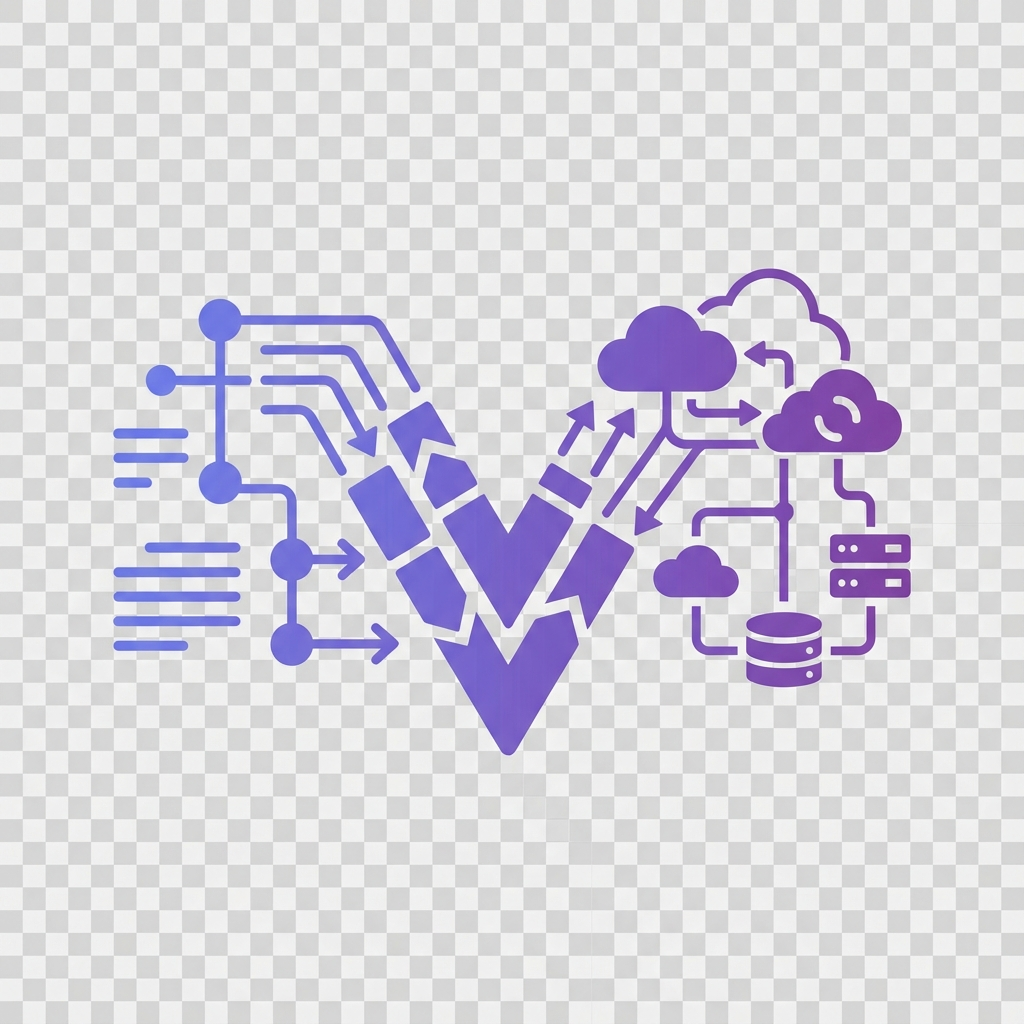
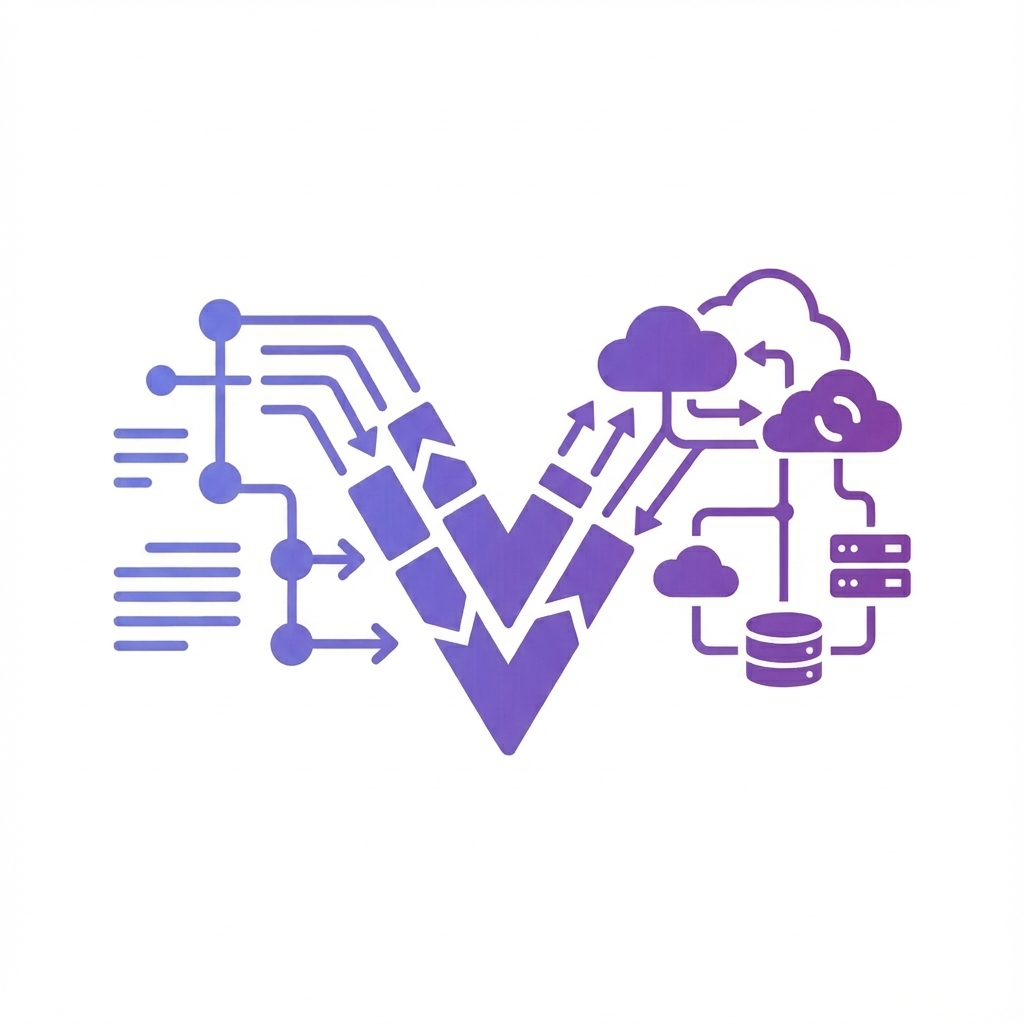
feat: fix image background and refactor blog section to hybrid layout

diff --git a/index.html b/index.html
@@ -830,6 +830,135 @@
                 transform: translateY(0);
             }
         }
+
+        /* Archive Table Styles */
+        .archive-container {
+            margin-top: 3rem;
+            display: none;
+        }
+
+        .archive-container.visible {
+            display: block;
+            animation: fadeIn 0.5s ease-out;
+        }
+
+        .article-table {
+            width: 100%;
+            border-collapse: collapse;
+            background: white;
+            border-radius: 12px;
+            overflow: hidden;
+            box-shadow: var(--shadow-sm);
+            border: 1px solid #e2e8f0;
+        }
+
+        .article-table th,
+        .article-table td {
+            padding: 1.25rem;
+            text-align: left;
+            border-bottom: 1px solid #e2e8f0;
+        }
+
+        .article-table th {
+            background: #f7fafc;
+            font-weight: 600;
+            color: var(--text-light);
+            font-size: 0.85rem;
+            text-transform: uppercase;
+            letter-spacing: 0.5px;
+        }
+
+        .article-table tr:last-child td {
+            border-bottom: none;
+        }
+
+        .article-table tr:hover {
+            background: #f8fafc;
+        }
+
+        .article-date {
+            color: var(--text-light);
+            font-size: 0.9rem;
+            white-space: nowrap;
+            width: 15%;
+        }
+
+        .article-title-cell {
+            width: 45%;
+        }
+
+        .article-title-text {
+            font-weight: 600;
+            color: var(--text-main);
+            font-size: 1rem;
+            display: block;
+            margin-bottom: 0.25rem;
+        }
+
+        .article-excerpt {
+            font-size: 0.85rem;
+            color: var(--text-light);
+            display: -webkit-box;
+            -webkit-line-clamp: 1;
+            line-clamp: 1;
+            -webkit-box-orient: vertical;
+            overflow: hidden;
+        }
+
+        .article-tags-cell {
+            width: 25%;
+        }
+
+        .article-link-cell {
+            width: 15%;
+            text-align: right;
+        }
+
+        .view-archive-btn-container {
+            text-align: center;
+            margin-top: 3rem;
+        }
+
+        @media (max-width: 768px) {
+            .article-table thead {
+                display: none;
+            }
+
+            .article-table,
+            .article-table tbody,
+            .article-table tr,
+            .article-table td {
+                display: block;
+                width: 100%;
+            }
+
+            .article-table tr {
+                margin-bottom: 1rem;
+                border: 1px solid #e2e8f0;
+                border-radius: 8px;
+            }
+
+            .article-table td {
+                padding: 0.75rem 1rem;
+                border-bottom: none;
+                text-align: left;
+            }
+
+            .article-date {
+                font-size: 0.8rem;
+                color: var(--primary);
+                padding-bottom: 0;
+            }
+
+            .article-title-cell {
+                padding-top: 0;
+            }
+
+            .article-link-cell {
+                text-align: left;
+                padding-top: 0;
+            }
+        }
     </style>
 </head>
 
@@ -1112,10 +1241,7 @@
                     <h2 class="section-title">Thoughts & Writing</h2>
                     <p>Insights on business analysis, product management, and digital transformation.</p>
                 </div>
-                <div class="article-grid">
-
-
-
+                <div class="article-grid featured-articles">
                     <!-- NEW ARTICLE -->
                     <article class="article-card">
                         <div class="article-meta">January 2025 • Business Analysis</div>
@@ -1157,51 +1283,87 @@
                         <a href="https://www.linkedin.com/pulse/beyond-buzzwords-business-analysts-strategic-ethical-ai-shanmugam-gvvbc"
                             class="link-text" target="_blank" rel="noopener noreferrer">Read on LinkedIn →</a>
                     </article>
+                </div>
 
-                    <!-- ARTICLE 3 -->
-                    <article class="article-card">
-                        <div class="article-meta">November 2024 • Product Management</div>
-                        <h3>Business Analyst's Role in Product Prioritization</h3>
-                        <p class="project-description">
-                            Should Business Analysts be involved in product feature prioritization? Exploring how BAs
-                            contribute to both business and implementation prioritization, and why their involvement
-                            matters
-                            for successful outcomes.
-                        </p>
-                        <a href="https://www.linkedin.com/pulse/business-analysts-role-product-prioritization-sabarish-shanmugam-pgnfc"
-                            class="link-text" target="_blank" rel="noopener noreferrer">Read on LinkedIn →</a>
-                    </article>
+                <div class="view-archive-btn-container">
+                    <button id="toggleArchiveBtn" class="btn btn-secondary" onclick="toggleArchive()">View Archived
+                        Articles</button>
+                </div>
 
-                    <!-- ARTICLE 4 -->
-                    <article class="article-card">
-                        <div class="article-meta">2024 • Product Validation</div>
-                        <h3>MVP: Validate Product Ideas Before It's Too Late</h3>
-                        <p class="project-description">
-                            One of the biggest mistakes is assuming you know what users want without validation.
-                            Understanding the Minimum Viable Product approach to test assumptions, gather feedback, and
-                            build the right product.
-                        </p>
-                        <a href="https://www.linkedin.com/pulse/mvp-validate-product-ideas-before-its-too-late-sabarish-shanmugam-y1rec"
-                            class="link-text" target="_blank" rel="noopener noreferrer">Read on LinkedIn →</a>
-                    </article>
+                <div id="archiveContainer" class="archive-container">
+                    <table class="article-table">
+                        <thead>
+                            <tr>
+                                <th>Date</th>
+                                <th>Article</th>
+                                <th>Tags</th>
+                                <th>Link</th>
+                            </tr>
+                        </thead>
+                        <tbody>
+                            <!-- ARTICLE 3 -->
+                            <tr>
+                                <td class="article-date" data-label="Date">Nov 2024</td>
+                                <td class="article-title-cell" data-label="Article">
+                                    <span class="article-title-text">Business Analyst's Role in Product
+                                        Prioritization</span>
+                                    <span class="article-excerpt">Exploring how BAs contribute to both business and
+                                        implementation prioritization.</span>
+                                </td>
+                                <td class="article-tags-cell" data-label="Tags">
+                                    <div class="tags">
+                                        <span class="tag">Product Management</span>
+                                        <span class="tag">Strategy</span>
+                                    </div>
+                                </td>
+                                <td class="article-link-cell" data-label="Link">
+                                    <a href="https://www.linkedin.com/pulse/business-analysts-role-product-prioritization-sabarish-shanmugam-pgnfc"
+                                        target="_blank" class="article-link">Read ↗</a>
+                                </td>
+                            </tr>
 
-                    <!-- ARTICLE 5 -->
-                    <article class="article-card">
-                        <div class="article-meta">2024 • Product Development</div>
-                        <h3>Balancing Act in IT Product Development</h3>
-                        <p class="project-description">
-                            Product teams face the challenge of balancing speed, quality, and feature richness.
-                            Exploring
-                            strategies to navigate time vs. quality trade-offs, prioritize features effectively, and
-                            build
-                            resilient products.
-                        </p>
-                        <a href="https://www.linkedin.com/pulse/balancing-act-product-development-sabarish-shanmugam-1krvc"
-                            class="link-text" target="_blank" rel="noopener noreferrer">Read on LinkedIn →</a>
-                    </article>
+                            <!-- ARTICLE 4 -->
+                            <tr>
+                                <td class="article-date" data-label="Date">2024</td>
+                                <td class="article-title-cell" data-label="Article">
+                                    <span class="article-title-text">MVP: Validate Product Ideas Before It's Too
+                                        Late</span>
+                                    <span class="article-excerpt">Understanding the Minimum Viable Product approach to
+                                        test assumptions.</span>
+                                </td>
+                                <td class="article-tags-cell" data-label="Tags">
+                                    <div class="tags">
+                                        <span class="tag">Product Validation</span>
+                                        <span class="tag">MVP</span>
+                                    </div>
+                                </td>
+                                <td class="article-link-cell" data-label="Link">
+                                    <a href="https://www.linkedin.com/pulse/mvp-validate-product-ideas-before-its-too-late-sabarish-shanmugam-y1rec"
+                                        target="_blank" class="article-link">Read ↗</a>
+                                </td>
+                            </tr>
 
-
-
+                            <!-- ARTICLE 5 -->
+                            <tr>
+                                <td class="article-date" data-label="Date">2024</td>
+                                <td class="article-title-cell" data-label="Article">
+                                    <span class="article-title-text">Balancing Act in IT Product Development</span>
+                                    <span class="article-excerpt">Strategies to navigate time vs. quality trade-offs and
+                                        prioritize features.</span>
+                                </td>
+                                <td class="article-tags-cell" data-label="Tags">
+                                    <div class="tags">
+                                        <span class="tag">Product Development</span>
+                                        <span class="tag">Agile</span>
+                                    </div>
+                                </td>
+                                <td class="article-link-cell" data-label="Link">
+                                    <a href="https://www.linkedin.com/pulse/balancing-act-product-development-sabarish-shanmugam-1krvc"
+                                        target="_blank" class="article-link">Read ↗</a>
+                                </td>
+                            </tr>
+                        </tbody>
+                    </table>
                 </div>
             </div>
         </section>
@@ -1297,6 +1459,20 @@
                     btnText.textContent = 'Show Less';
                 } else {
                     btnText.textContent = 'Learn More About Me';
+                }
+            }
+
+            // Archive Toggle
+            function toggleArchive() {
+                const container = document.getElementById('archiveContainer');
+                const btn = document.getElementById('toggleArchiveBtn');
+
+                container.classList.toggle('visible');
+
+                if (container.classList.contains('visible')) {
+                    btn.textContent = 'Hide Archived Articles';
+                } else {
+                    btn.textContent = 'View Archived Articles';
                 }
             }
 
